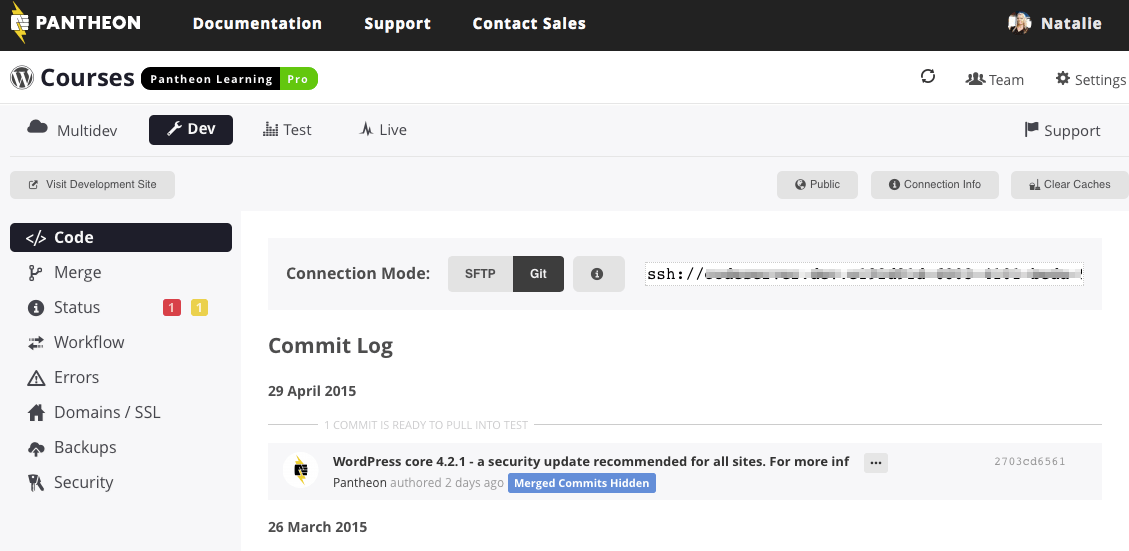
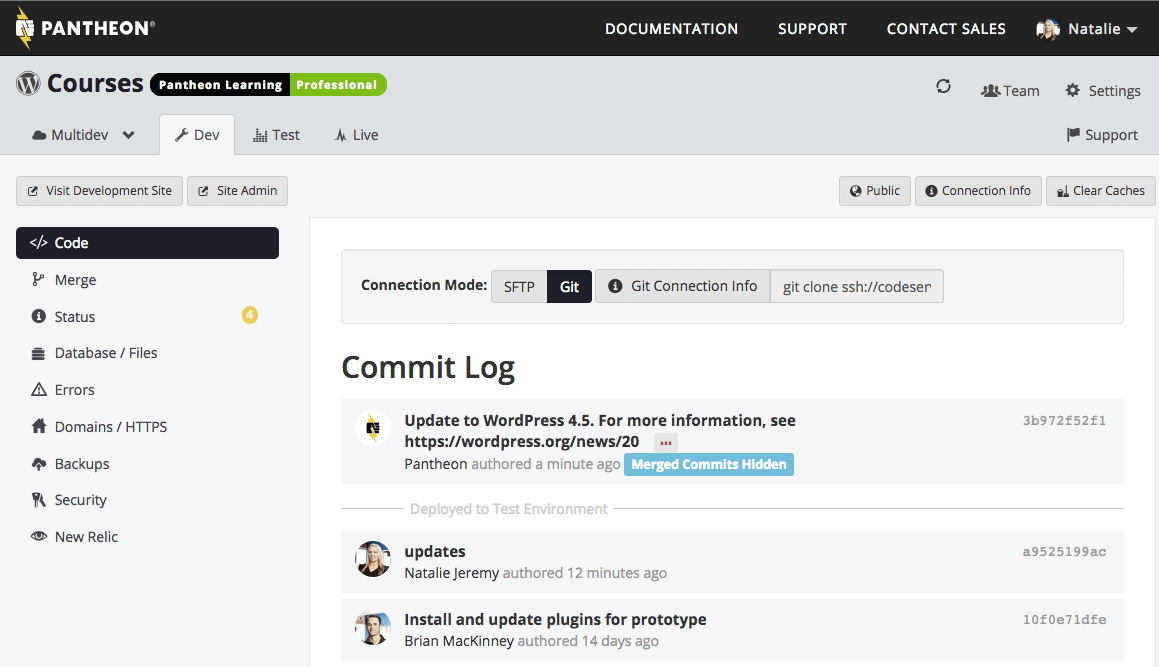
update workflow tab name and images

diff --git a/source/_docs/sftp.md b/source/_docs/sftp.md
@@ -15,7 +15,7 @@ If you want to use your website framework's built-in update systems (e.g. the <c
 <h4>Note</h4>
 Due to the nature of our platform, the connection information will change from time to time due to server upgrades, endpoint migrations, etc. You will need to check this within the Dashboard periodically or when you find that you can’t connect.</div>
 
- ![Enable SFTP mode](/source/docs/assets/images/desk_images/278855.png)
+ ![Enable SFTP mode](/source/docs/assets/images/enable-sftp.png)
 <div class="alert alert-danger" role="alert"><h4>Warning</h4>
 SFTP changes to code that have not been committed will <strong>not be saved in backups</strong> as they are not part of your code repository yet. You must commit these file changes if you want to keep them permanently. If you switch from SFTP to Git mode while uncommitted changes are pending, you will be presented with a dialog confirming that you don't want to keep these changes, and if confirmed, they will be deleted.</div>
 
@@ -34,7 +34,9 @@ When in SFTP mode, there's comment box above the commit log. As you make changes
 ## SFTP Connection Information
 
 To get your SFTP login credentials, click **Connection Info**. You will see your connection credentials and a link to connect directly with your preferred client.
- ![SFTP Connection Data](/source/docs/assets/images/desk_images/278856.png)<br />
+
+ ![SFTP Connection Data](/source/docs/assets/images/connection-info-image.png)<br />
+
 The connection information is a bit different than what you might be used to, though it is based on your unique "Site ID". This is the long string at the end of your Dashboard URL and in your Git connection string, something like: `xxxxxxxx-xxxx-xxxx-xxxx-xxxxxxxxxxxx`.
 
 Your connection data is as follows:
@@ -69,14 +71,12 @@ Alternatively, you can connect via SFTP using the public [SSH key you uploaded t
 
 Even though you are unable to use Git to push remotely with SFTP mode enabled, you still need to commit your changes to save them, or to push them to Test/Live. You should commit early and commit often.
 
-After you have made a change to your code, you will see a message that appears below the comment box to let you know you have some changes that are not in your repository.
- ![Viewing changes made via SFTP](/source/docs/assets/images/desk_images/278859.png)<br />
-Clicking on the notification message expands the listing of the pending changes.
+After you have made a change to your code, you will see a message that appears below the comment box to let you know you have some changes that are not in your repository. Clicking on the notification message expands the listing of the pending changes.
 
-Write a helpful commit message to go with your changes. This will make maintaining your code a saner process, and make it easier for any other developers who pull your changes down to understand what you've done.<br />
- ![Writing a commit message](/source/docs/assets/images/desk_images/278861.png)<br />
-Once your message is ready, click **Commit**.<br />
- ![Committing Blocking UI](/source/docs/assets/images/desk_images/278852.png)<br />
+Write a helpful commit message to go with your changes. This will make maintaining your code a saner process, and make it easier for any other developers who pull your changes down to understand what you've done.
+
+Once your message is ready, click **Commit**.
+
 
 <div class="alert alert-info" role="alert">
 <h4>Note</h4>

diff --git a/source/_docs/resetting-passwords.md b/source/_docs/resetting-passwords.md
@@ -16,7 +16,7 @@ http://dev-mysite.pantheonsite.io/user/password
 ```
 In the password reset form, enter either the username or email address you used to sign up for the administrative account, and you will receive an email with a link. When you click the link in your email, you will be logged in to your site and brought to your user profile edit page, where you can reset your password. You need to enter your new password at this point. Don’t leave the page without setting a new password, or else you will have to go through this  process again the next time you want to login to your Drupal site.
 
-Please keep in mind that your site password is stored in a database, so whatever you set in the Development environment may be different than Test or live, unless you keep the database content synced between the environments using the tools in Database/Files tab of the Pantheon Dashboard or during deployment.
+Please keep in mind that your site password is stored in a database, so whatever you set in the Development environment may be different than Test or live, unless you keep the database content synced between the environments using the tools in Database / Files tab of the Pantheon Dashboard or during deployment.
 
 If you still can’t get access to your site using password reset, for example if you don't have access to the corresponding email address for the account, you can still generate a one-time password reset link by using the following [Terminus](/docs/terminus/) command for generating one-time login links:
 

diff --git a/source/_docs/sites.md b/source/_docs/sites.md
@@ -66,7 +66,7 @@ Visit this tab in the Dev environment when you have commits from Multidev enviro
 Pantheon provides static site analysis as a service for your site to make best practice recommendations on site configurations and to help detect common problems. This mechanism does not perform requests on your site, and in doing so avoids the observer effect. It's non-intrusive, so no installation or configuration is required. Finally, it's completely automated for consistent reports and results. Learn more about our Launch Check for
 [Drupal sites](/docs/drupal-launch-check/) or [WordPress sites](/docs/wordpress-launch-check/).
 
-## Database/Files
+## Database / Files
 ###Clone
 Use this tool to clone database and files from an environment.
 
@@ -84,7 +84,7 @@ Learn more about the [Pantheon Workflow](/docs/pantheon-workflow/).
 ## Errors
 All PHP errors are shown on this tab. If any are found, recommendations are made. Learn more about [PHP Errors and Exceptions](/docs/php-errors/).
 
-## Domains/HTTPS
+## Domains / HTTPS
 Use the [Domains/HTTPS tab](/docs/domains) to add the custom domain(s) you would like pointed to this environment. You can also enable or disable HTTPS for an environment. If you choose to enable HTTPS, you must generate a private key and get your certificate from a recognized certificate authority. For more details, see [Enable Secure HTTPS Communication](/docs/enable-https/).
 
 ## Backups

diff --git a/source/_docs/database-workflow.md b/source/_docs/database-workflow.md
@@ -7,7 +7,7 @@ tags: [database, platform]
 ---
 The Pantheon platform provides each site environment with a dedicated MySQL container running [MariaDB](http://en.wikipedia.org/wiki/MariaDB) that can be maintained remotely or locally. For a comprehensive list of MySQL settings, [access your database](/docs/mysql-access/#database-connection-information) and use the [SHOW VARIABLES](http://dev.mysql.com/doc/refman/5.0/en/show-variables.html) statement.
 
-Using the tools in the Database/Files tab, you can overwrite the databases on your site's Dev or Test environment with the database on your Live environment, allowing you to pull content from Live in to other environments.
+Using the tools in the Database / Files tab, you can overwrite the databases on your site's Dev or Test environment with the database on your Live environment, allowing you to pull content from Live in to other environments.
 ![Workflow Tool](/source/docs/assets/images/interface-workflow-tool.png)
 <div class="alert alert-danger"><h4>Warning</h4>
 Pushing content up to Live should almost never be done to a launched site, as it can overwrite the environment configurations. See <a href="/docs/pantheon-workflow/">Using the Pantheon Workflow</a>. </div>

diff --git a/source/_docs/new-relic-analysis.md b/source/_docs/new-relic-analysis.md
@@ -13,14 +13,10 @@ Enabling New Relic on Pantheon not only makes it easy for you to monitor to your
 
 To enable New Relic on your Pantheon site, click **Settings** in the upper-right corner of your Site Dashboard. Within the Add Ons tab, click **Add** next to New Relic.
 
-![Pantheon Dashboard enable New Relic](/source/docs/assets/images/desk_images/218052.png)  
+![Pantheon Dashboard enable New Relic](/source/docs/assets/images/new-relic-add-on-image.png)  
 Pantheon will automatically configure New Relic on your behalf, including all configurations on the server.
 
-Access New Relic by clicking selecting the New Relic tab on the Site Dashboard.  
-
-
- ![Access New Relic](/source/docs/assets/images/desk_images/280225.png)  
-
+Access New Relic by clicking selecting the **New Relic** tab on the Site Dashboard.  
 
 You should visit your site in the browser a couple of times to generate data in New Relic. After a few minutes pass, go to the New Relic workspace on your Dashboard, and click **Open New Relic**.
 

diff --git a/source/_docs/unsupported-modules-plugins.md b/source/_docs/unsupported-modules-plugins.md
@@ -27,7 +27,7 @@ We do not prevent you from installing and using these plugins/modules; however, 
 
 <hr>
 ### Backup & Migrate
-**Issue**: The Backup and Migrate module can create large archives and cause issues with the tools in the Database/Files tab of the Dashboard. See [Backup Creation](/docs/create-backups#why-is-the-drupal-module-backup-%26-migrate-not-recommended-on-pantheon%3F).
+**Issue**: The Backup and Migrate module can create large archives and cause issues with the tools in the Database / Files tab of the Dashboard. See [Backup Creation](/docs/create-backups#why-is-the-drupal-module-backup-%26-migrate-not-recommended-on-pantheon%3F).
 
 **Solution**: You can use the automated backups that are available on the Dashboard for each environment.
 <hr>

diff --git a/source/_docs/custom-upstream.md b/source/_docs/custom-upstream.md
@@ -101,7 +101,7 @@ git push origin master
 
 Visit the Development site URL and complete the site installation process to make sure your distribution installs cleanly.
 
-Testers might find it helpful to use the wipe functionality in the Database/Files tab to easily run through the install process multiple times:
+Testers might find it helpful to use the wipe functionality in the Database / Files tab to easily run through the install process multiple times:
 ```bash
 terminus site wipe
 ```

diff --git a/source/_docs/mysql-access.md b/source/_docs/mysql-access.md
@@ -14,7 +14,7 @@ Due to the nature of our platform, the connection information will change from t
 ## Database Connection Information
 
 MySQL credentials for each site environment are located in the Dashboard:<br />
-![MySQL Credentials](/source/docs/assets/images/desk_images/168060.png)<br />
+![MySQL Credentials](/source/docs/assets/images/mysql-info.png)<br />
 The following required fields are provided:
 
 - **Server**: The hostname of the MySQL server.

diff --git a/source/_docs/local-development.md b/source/_docs/local-development.md
@@ -46,7 +46,7 @@ Log in to Pantheon and load the Dashboard for the site you want to work on.
 ### Step 2: Copy the Git Clone Command
 
 At the top of the development panel, look for the `git clone` command and copy and paste it in your terminal. It will look something like this:<br />
-![Copy Past Git Clone](/docs/assets/images/git_string.png)<br />
+![Copy Past Git Clone](/docs/assets/images/git-string.png)<br />
 
 ### Step 3: Run Git Clone
 
